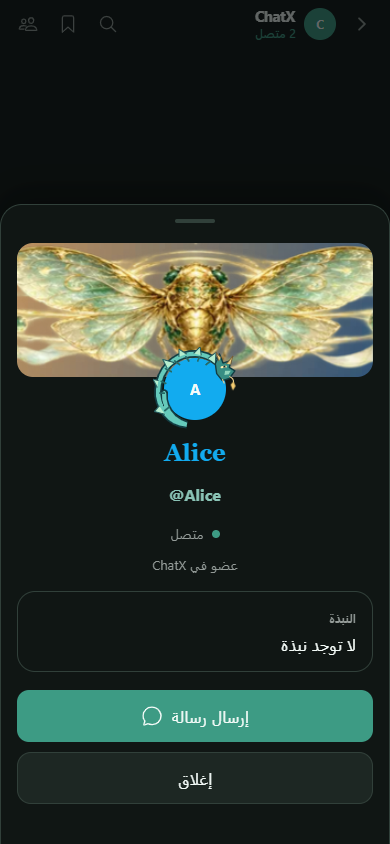
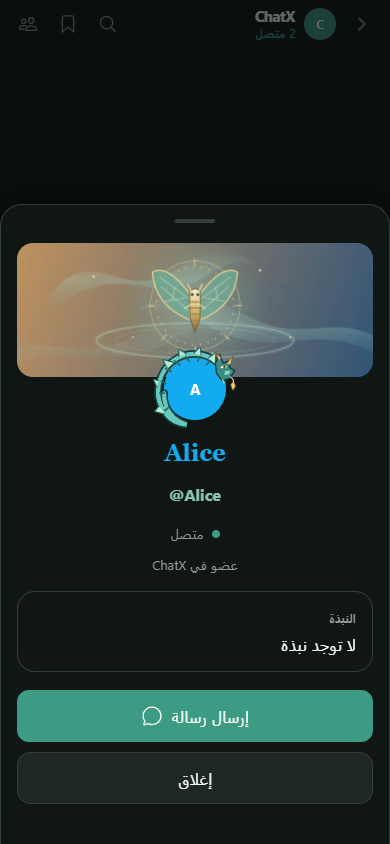
Restore transparent SVG cultivation effects with animated smoke and aura

Changed region(s): [[0.0308, 0.2773, 0.9538, 0.4621]]

diff --git a/src/components/common/CultivationScene.tsx b/src/components/common/CultivationScene.tsx
@@ -1,12 +1,79 @@
+import { useId } from 'react';
+
 type SceneKind = 'celestial-dragon' | 'sword-domain' | 'time-cicada';
-const motionClass: Record<SceneKind, string> = {
-  'celestial-dragon': 'celestial-dragon-body',
-  'sword-domain': 'immortal-sword',
-  'time-cicada': 'gu-cicada',
-};
-/** Local compressed drawings: no vector artwork or continuous network downloads. */
+const SWORDS = [[170, 130, -32], [230, 96, -18], [285, 79, -6], [355, 79, 6], [410, 96, 18], [470, 130, 32]] as const;
+
+/** Original cultivation artwork, drawn locally and animated with transform/opacity only. */
 export default function CultivationScene({ kind }: { kind: SceneKind }) {
-  return <div className={`cultivation-scene scene-${kind}`} aria-hidden="true">
-    <img className={motionClass[kind]} src={`/assets/cultivation/${kind}-v1.webp`} alt="" decoding="async" draggable={false} />
-  </div>;
+  const id = useId().replace(/:/g, '');
+  const jade = `cultivation-jade-${id}`, gold = `cultivation-gold-${id}`, halo = `cultivation-halo-${id}`, smoke = `cultivation-smoke-${id}`;
+  return <svg className={`cultivation-scene scene-${kind}`} viewBox="0 0 640 240" preserveAspectRatio="xMidYMid slice" aria-hidden="true">
+    <defs>
+      <linearGradient id={jade} x1="0" y1="0" x2="1" y2="1"><stop stopColor="#f6e6b0" /><stop offset=".4" stopColor="#92dbbd" /><stop offset="1" stopColor="#1d6a72" /></linearGradient>
+      <linearGradient id={gold} x1="0" y1="0" x2="0" y2="1"><stop stopColor="#fff3cb" /><stop offset=".5" stopColor="#dab66b" /><stop offset="1" stopColor="#927041" /></linearGradient>
+      <radialGradient id={halo}><stop stopColor="#beeecf" stopOpacity=".45" /><stop offset="1" stopColor="#62beaa" stopOpacity="0" /></radialGradient>
+      <linearGradient id={smoke} x1="0" y1="0" x2="0" y2="1"><stop stopColor="#d3eee2" stopOpacity="0" /><stop offset=".5" stopColor="#a6dccf" stopOpacity=".28" /><stop offset="1" stopColor="#62bea9" stopOpacity="0" /></linearGradient>
+    </defs>
+    <circle className="cultivation-halo" cx="320" cy="110" r="136" fill={`url(#${halo})`} />
+    <g className="cultivation-aura" fill="none" stroke="#b7e3cc">
+      <ellipse cx="320" cy="174" rx="176" ry="31" strokeWidth="8" opacity=".08" />
+      <ellipse cx="320" cy="174" rx="176" ry="31" strokeWidth="1.5" opacity=".5" />
+      <ellipse cx="320" cy="174" rx="142" ry="23" strokeWidth="1" opacity=".3" />
+    </g>
+    <g className="cultivation-smoke" fill={`url(#${smoke})`}>
+      <path className="smoke-ribbon smoke-left" d="M-60 205C40 130 122 219 231 153S360 103 425 133C338 115 306 175 228 191S83 159-60 236Z" />
+      <path className="smoke-ribbon smoke-right" d="M700 204C593 124 542 206 429 145S294 101 227 134C311 113 341 173 432 191S569 153 700 234Z" />
+      <path className="smoke-ribbon smoke-high" d="M57 102C127 14 177 118 260 65S362 32 393 50C340 39 317 86 260 93S156 54 57 129Z" opacity=".7" />
+    </g>
+    {kind === 'celestial-dragon' && <g className="celestial-dragon-body">
+      <path d="M116 164C169 62 214 187 281 130S382 38 448 89" fill="none" stroke="#0c373e" strokeWidth="25" strokeLinecap="round" />
+      <path d="M116 164C169 62 214 187 281 130S382 38 448 89" fill="none" stroke={`url(#${jade})`} strokeWidth="16" strokeLinecap="round" />
+      <path d="M116 164C169 62 214 187 281 130S382 38 448 89" fill="none" stroke="#d7e8b9" strokeWidth="3" opacity=".8" />
+      <path d="M147 109L149 94L160 105M180 121L192 108L194 132M219 151L230 139L232 155M266 143L265 129L279 134M308 103L304 85L321 92M346 73L346 56L359 68M391 67L399 49L405 69M425 77L438 63L438 85" fill="#d9cf91" stroke="#46746a" strokeWidth="1.5" />
+      <path d="M170 109L165 120M204 141L195 148M244 151L245 139M289 123L299 132M328 83L335 93M368 64L370 78M412 69L408 82" stroke="#327575" strokeWidth="2.5" />
+      <path d="M275 127L261 110L245 107M261 110L253 98M323 96L339 116L355 119M339 116L341 127" fill="none" stroke="#97c9a5" strokeWidth="5" strokeLinecap="round" />
+      <g className="celestial-dragon-head">
+        <path d="M432 73L448 66L462 71L464 81L485 85L489 99L478 110L457 108L445 98L432 91Z" fill={`url(#${jade})`} stroke="#163d43" strokeWidth="2" />
+        <path d="M438 74L432 52L442 59L451 74M452 70L457 49L465 43L461 64" fill="none" stroke={`url(#${gold})`} strokeWidth="5" strokeLinecap="round" />
+        <path d="M439 65L428 60L431 80L420 83L435 90L428 101L449 103" fill="#a4d4aa" />
+        <path d="M454 83L465 82" stroke="#ffe6a2" strokeWidth="4" strokeLinecap="round" />
+        <circle cx="461" cy="83" r="2" fill="#173138" />
+        <path d="M468 101L486 98M475 105L477 113L481 104" fill="none" stroke="#f8e8be" strokeWidth="2" />
+        <path className="dragon-whiskers" d="M484 92Q506 67 519 83T548 86M480 99Q504 116 516 102T547 107" fill="none" stroke="#e4d9a2" strokeWidth="1.5" strokeLinecap="round" />
+      </g>
+      <path d="M113 166L96 160L98 185L126 174Z" fill="#95b991" />
+    </g>}
+    {kind === 'sword-domain' && <>
+      <g className="sword-seal" fill="none" stroke="#d7c795" opacity=".6">
+        <circle cx="320" cy="118" r="83" strokeWidth="1" /><circle cx="320" cy="118" r="69" strokeDasharray="5 9" />
+        <ellipse cx="320" cy="118" rx="83" ry="35" strokeWidth="1" />
+      </g>
+      {SWORDS.map(([x, y, rotation], index) => <g key={index} transform={`translate(${x} ${y}) rotate(${rotation})`}>
+        <g className={`immortal-sword sword-${index}`}>
+          <path d="M0-73L7-56L4 15H-4L-7-56Z" fill="#dcefea" stroke="#639996" strokeWidth="1.2" />
+          <path d="M0-70V15" stroke="#fff7d5" strokeWidth="1.4" />
+          <path d="M-13 16L-16 22L0 19L16 22L13 16Z" fill={`url(#${gold})`} />
+          <path d="M-3 19V41L0 46L3 41V19Z" fill="#355d62" stroke="#dbc892" />
+          <path d="M0 46Q-9 58-3 66" fill="none" stroke="#9fd7bd" strokeWidth="2" />
+        </g>
+      </g>)}
+    </>}
+    {kind === 'time-cicada' && <>
+      <g className="time-seal" fill="none" stroke="#e1ce8c" opacity=".75">
+        <circle cx="320" cy="112" r="80" strokeWidth="1" /><circle cx="320" cy="112" r="69" strokeDasharray="2 12" strokeWidth="3" />
+        <path d="M320 28V40M320 184V196M236 112H248M392 112H404M260 52L269 61M371 163L380 172M260 172L269 163M371 61L380 52" strokeWidth="2" />
+      </g>
+      <g className="gu-cicada">
+        <g className="cicada-wing wing-left"><path d="M313 94Q271 36 244 52Q248 111 310 137Z" fill="#6da994" fillOpacity=".8" stroke="#f0d591" strokeWidth="2" /><path d="M311 101L256 60M301 98L267 104M284 78L279 102M309 121L260 78" fill="none" stroke="#d5daac" strokeWidth="1" /></g>
+        <g className="cicada-wing wing-right"><path d="M327 94Q369 36 396 52Q392 111 330 137Z" fill="#6da994" fillOpacity=".8" stroke="#f0d591" strokeWidth="2" /><path d="M329 101L384 60M339 98L373 104M356 78L361 102M331 121L380 78" fill="none" stroke="#d5daac" strokeWidth="1" /></g>
+        <path d="M310 88Q320 75 330 88L329 135L320 158L311 135Z" fill={`url(#${gold})`} stroke="#725f3c" strokeWidth="2" />
+        <path d="M313 105H327M312 116H328M313 127H327M315 138H325" stroke="#7e865d" strokeWidth="2" />
+        <path d="M314 88L307 73M326 88L333 73M313 109L302 117M327 109L338 117" stroke="#eee0ad" strokeWidth="2" strokeLinecap="round" />
+        <circle cx="315" cy="92" r="2.5" fill="#1f4b46" /><circle cx="325" cy="92" r="2.5" fill="#1f4b46" />
+      </g>
+    </>}
+    <g className="spirit-particles" fill="#e9dba8">
+      <circle cx="139" cy="60" r="2" /><circle cx="209" cy="168" r="1.5" /><circle cx="436" cy="49" r="2" /><circle cx="490" cy="168" r="1.5" /><circle cx="351" cy="198" r="2" />
+    </g>
+  </svg>;
 }

diff --git a/src/components/common/ProfileCosmetics.css b/src/components/common/ProfileCosmetics.css
@@ -79,17 +79,42 @@
 .user-card-banner, .profile-editor-banner { position:relative; isolation:isolate; }
 .profile-banner .banner-actions { z-index:4; }
 .cultivation-scene { display:block; width:100%; height:100%; }
-.cultivation-scene { display:grid; place-items:center; overflow:hidden; }
-.cultivation-scene img { display:block; width:100%; height:100%; object-fit:contain; transform-origin:center; }
-.is-animated .celestial-dragon-body { animation:celestial-dragon 9s ease-in-out infinite; }
+.cultivation-halo { opacity:.85; }
+.is-animated .cultivation-halo { animation:spirit-halo 7s ease-in-out infinite; }
+.is-animated .cultivation-mist { animation:spirit-mist 12s ease-in-out infinite alternate; }
+.is-animated .celestial-dragon-body { animation:celestial-dragon 9s ease-in-out infinite; transform-origin:320px 112px; }
+.is-animated .dragon-whiskers { animation:dragon-whiskers 4s ease-in-out infinite; transform-origin:480px 96px; }
+.is-animated .sword-seal, .is-animated .time-seal { animation:spirit-seal 32s linear infinite; transform-origin:320px 118px; }
+.is-animated .time-seal { transform-origin:320px 112px; animation-direction:reverse; }
 .is-animated .immortal-sword { animation:immortal-sword 5s ease-in-out infinite; }
+.is-animated .sword-1, .is-animated .sword-4 { animation-delay:-1.5s; }
+.is-animated .sword-2, .is-animated .sword-3 { animation-delay:-3s; }
 .is-animated .gu-cicada { animation:cicada-hover 6s ease-in-out infinite; }
-@keyframes celestial-dragon { 35% { transform:translate(-4px,-4px) rotate(-1deg); } 70% { transform:translate(4px,2px) rotate(1deg); } }
-@keyframes immortal-sword { 50% { transform:translateY(-6px); } }
-@keyframes cicada-hover { 50% { transform:translateY(-5px) scale(1.025); } }
+.is-animated .wing-left { animation:cicada-left 4s ease-in-out infinite; transform-origin:315px 108px; }
+.is-animated .wing-right { animation:cicada-right 4s ease-in-out infinite; transform-origin:325px 108px; }
+.is-animated .spirit-particles { animation:spirit-particles 7s ease-in-out infinite; }
+@keyframes spirit-halo { 50% { opacity:.5; } }
+@keyframes spirit-mist { to { transform:translateX(14px); opacity:.5; } }
+@keyframes celestial-dragon { 35% { transform:translate(-6px,-7px) rotate(-1deg); } 70% { transform:translate(5px,2px) rotate(1deg); } }
+@keyframes dragon-whiskers { 50% { transform:rotate(-4deg); } }
+@keyframes spirit-seal { to { transform:rotate(360deg); } }
+@keyframes immortal-sword { 50% { transform:translateY(-9px); } }
+@keyframes cicada-hover { 50% { transform:translateY(-7px); } }
+@keyframes cicada-left { 50% { transform:rotate(-5deg); } }
+@keyframes cicada-right { 50% { transform:rotate(5deg); } }
+@keyframes spirit-particles { 50% { transform:translateY(-13px); opacity:.3; } }
 .profile-editor-preview { border:1px solid var(--chatx-frame); border-radius:18px; overflow:hidden; }
 .profile-editor-banner { height:100px; overflow:hidden; background:radial-gradient(ellipse at 80% 0,var(--banner),transparent 85%),var(--chatx-bg); }
 .profile-editor-banner > img { width:100%; height:100%; object-fit:cover; display:block; }
 .profile-editor-preview .cosmetic-preview { margin-top:-28px; min-height:100px; border:0; border-radius:0; background:transparent; }
 @media (max-height:600px) { .profile-editor-banner { height:64px; } .profile-editor-preview .cosmetic-preview { min-height:72px; } }
+@media (prefers-reduced-motion:reduce) { .profile-effect.is-animated .cultivation-scene * { animation:none; } }
+/* Transparent atmosphere leaves the uploaded banner visible underneath. */
+.is-animated .smoke-ribbon { animation:cultivation-smoke 10s ease-in-out infinite; transform-box:fill-box; transform-origin:center; }
+.is-animated .smoke-right { animation-name:cultivation-smoke-reverse; animation-delay:-5s; }
+.is-animated .smoke-high { animation-duration:14s; animation-delay:-7s; }
+.is-animated .cultivation-aura { animation:cultivation-aura 6s ease-in-out infinite; transform-origin:320px 174px; }
+@keyframes cultivation-smoke { 0%,100% { transform:translate(-12px,9px) scale(.97); opacity:.35; } 50% { transform:translate(18px,-13px) scale(1.07); opacity:.9; } }
+@keyframes cultivation-smoke-reverse { 0%,100% { transform:translate(12px,7px) scale(1.02); opacity:.4; } 50% { transform:translate(-18px,-16px) scale(.97); opacity:.85; } }
+@keyframes cultivation-aura { 50% { transform:scale(1.08,.85); opacity:.45; } }
 @media (prefers-reduced-motion:reduce) { .profile-effect.is-animated .cultivation-scene * { animation:none; } }

diff --git a/src/components/common/ProfileCosmetics.test.tsx b/src/components/common/ProfileCosmetics.test.tsx
@@ -62,8 +62,11 @@ it('confines cultivation artwork to the banner and keeps it static with data sav
   rerender(<ProfileEffect effect="celestial-dragon" color="#3d9b84" />);
   expect(container.querySelector('.cultivation-scene')).toBeNull();
   rerender(<ProfileEffect effect="sword-domain" color="#3d9b84" placement="banner" />);
-  expect(container.querySelector('.cultivation-scene svg')).toBeNull();
-  expect(container.querySelector('.immortal-sword')?.getAttribute('src')).toBe('/assets/cultivation/sword-domain-v1.webp');
+  expect(container.querySelectorAll('.immortal-sword')).toHaveLength(6);
+  expect(container.querySelector('.cultivation-scene img')).toBeNull();
+  expect(container.querySelectorAll('.smoke-ribbon')).toHaveLength(3);
+  expect(container.querySelector('.cultivation-aura')).not.toBeNull();
+  expect(container.querySelector('rect')).toBeNull();
   rerender(<ProfileEffect effect="time-cicada" color="#3d9b84" placement="banner" />);
   expect(container.querySelector('.gu-cicada')).not.toBeNull();
 });

diff --git a/docs/CULTIVATION-ART.md b/docs/CULTIVATION-ART.md
@@ -1,7 +1,10 @@
-# Cultivation banner drawings
+# Cultivation SVG profile effects
 
-Generated with built-in imagegen. Original ChatX raster artwork, no Discord assets.
+The uploaded user banner remains the background image. Independent transparent SVG effects overlay it: celestial dragon, immortal swords, time cicada, smoke ribbons and aura rings. No opaque backdrop or six-pointed star. The raster experiment is no longer used.
 
-Prompt: Create a horizontal triptych sprite asset for a chat app cultivation profile banner, transparent background. Three equal horizontal panels stacked vertically, each 640x240 aspect ratio, absolutely no text. Top: elegant jade Chinese celestial dragon, hand-painted anime/manhua illustration, flowing long serpentine body, detailed golden horns and whiskers, wisps of mist. Middle: six ornate Chinese immortal flying swords arranged in fan, jade gold glowing circular energy rings, NO stars, NO triangles, NO religious symbols. Bottom: golden mystical cicada with translucent jade wings surrounded by round time rings, no symbols. Dark fantasy elegant Chinese cultivation novel mood. Each illustration isolated against full transparency, no panel borders, consistent painterly anime drawing style. High visual detail, not vector or SVG-looking. Subject comfortably inside each panel. Output image wide 2.667:1 each panel and total image 0.889:1.
+Original ChatX artwork inspired by the profile-overlay concept, not a claim of exact Discord asset reproduction. Sources:
+- https://support.discord.com/hc/en-us/articles/17828465914263-Profile-Effects
+- https://developer.mozilla.org/en-US/docs/Web/SVG/Reference/Element/linearGradient
+- https://web.dev/articles/animations-guide
 
-The three panels are packaged as local WebP assets (62–90 KB each) in public/assets/cultivation. CSS animates their floating movement; these are moving illustrations, not frame-by-frame character animation. Static in data saver, reduced-motion, hidden-page and constrained-device modes.
+Motion uses CSS transform and opacity; no animated noise filters, continuous asset downloads or animation library. Economy mode, constrained devices and hidden pages keep static artwork. Reduced-motion stops all inner SVG animations. Artwork stays inside the banner and cannot intercept clicks.
